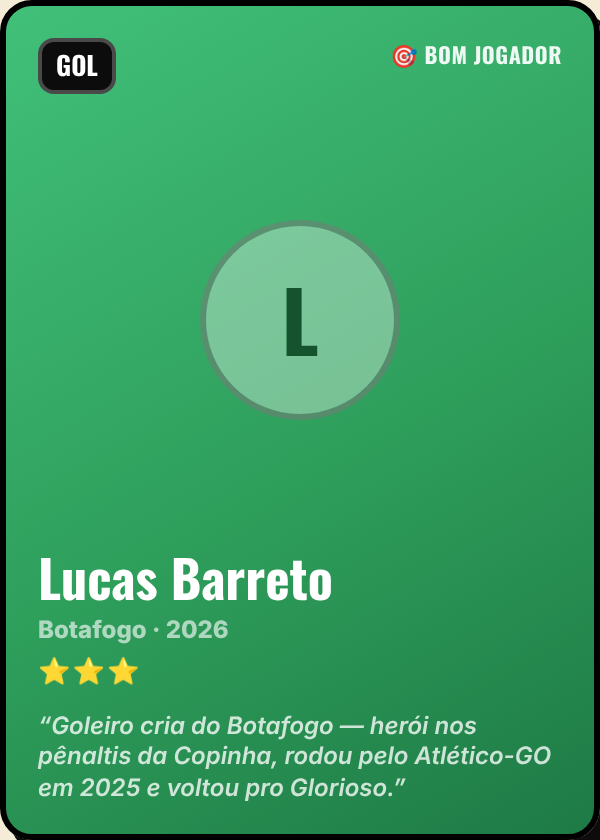
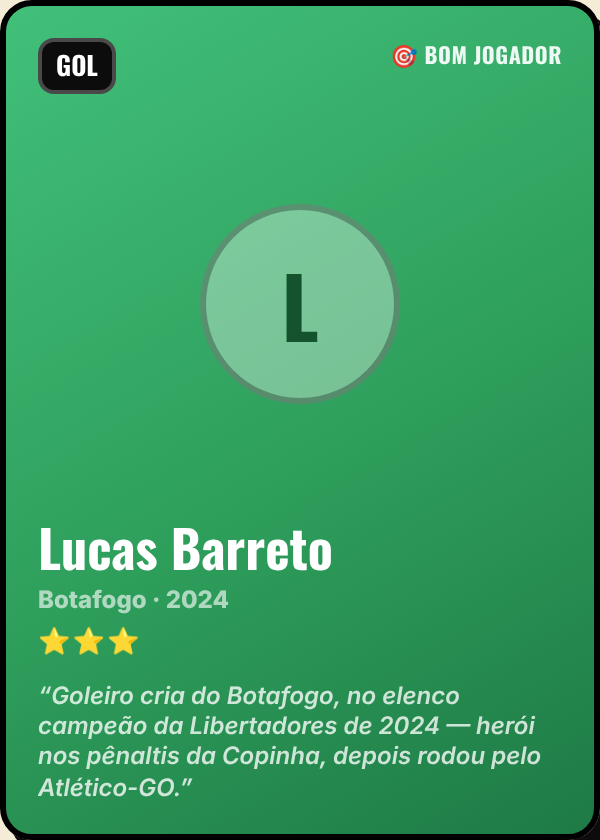
Foto da carta do Lucas Barreto (Botafogo 2024)
Claude-Session: https://claude.ai/code/session_018Ap1zPCMVL9XeZJN3u93ZA

diff --git a/scripts/teste-carta/main.tsx b/scripts/teste-carta/main.tsx
@@ -7,8 +7,8 @@ import { CATALOG, CATALOG_EU, CATALOG_WORLD } from '../../src/escalacao/data'
 const q = new URLSearchParams(location.search)
 const nome = q.get('nome') ?? 'Lucas Barreto'
 // a carta DE VERDADE do baralho (nível, bio, promessa…) — achada pelo nome+clube+ano
-const real = [CATALOG, CATALOG_EU, CATALOG_WORLD].flatMap(c => Object.values(c).flat()).find(c => c.name === nome && c.club === (q.get('clube') ?? 'Botafogo') && c.year === Number(q.get('ano') ?? 2026)) as { bio?: string; folk?: boolean; promessa?: boolean } | undefined
+const real = [CATALOG, CATALOG_EU, CATALOG_WORLD].flatMap(c => Object.values(c).flat()).find(c => c.name === nome && c.club === (q.get('clube') ?? 'Botafogo') && c.year === Number(q.get('ano') ?? 2024)) as { bio?: string; folk?: boolean; promessa?: boolean } | undefined
 createRoot(document.getElementById('root')!).render(
   <div style={{ display: 'flex', gap: 24, padding: 24, background: '#F4ECD6', alignItems: 'flex-start' }}>
-    <div id="carta" style={{ display: 'inline-block', width: 300 }}><CollectibleCard big name={q.get('nome') ?? 'Lucas Barreto'} club={q.get('clube') ?? 'Botafogo'} year={Number(q.get('ano') ?? 2026)} pos={q.get('pos') ?? 'GOL'} fame={Number(q.get('fama') ?? 3)} bio={real?.bio} folk={real?.folk} promessa={real?.promessa} showBio /></div>
+    <div id="carta" style={{ display: 'inline-block', width: 300 }}><CollectibleCard big name={q.get('nome') ?? 'Lucas Barreto'} club={q.get('clube') ?? 'Botafogo'} year={Number(q.get('ano') ?? 2024)} pos={q.get('pos') ?? 'GOL'} fame={Number(q.get('fama') ?? 3)} bio={real?.bio} folk={real?.folk} promessa={real?.promessa} showBio /></div>
   </div>)
